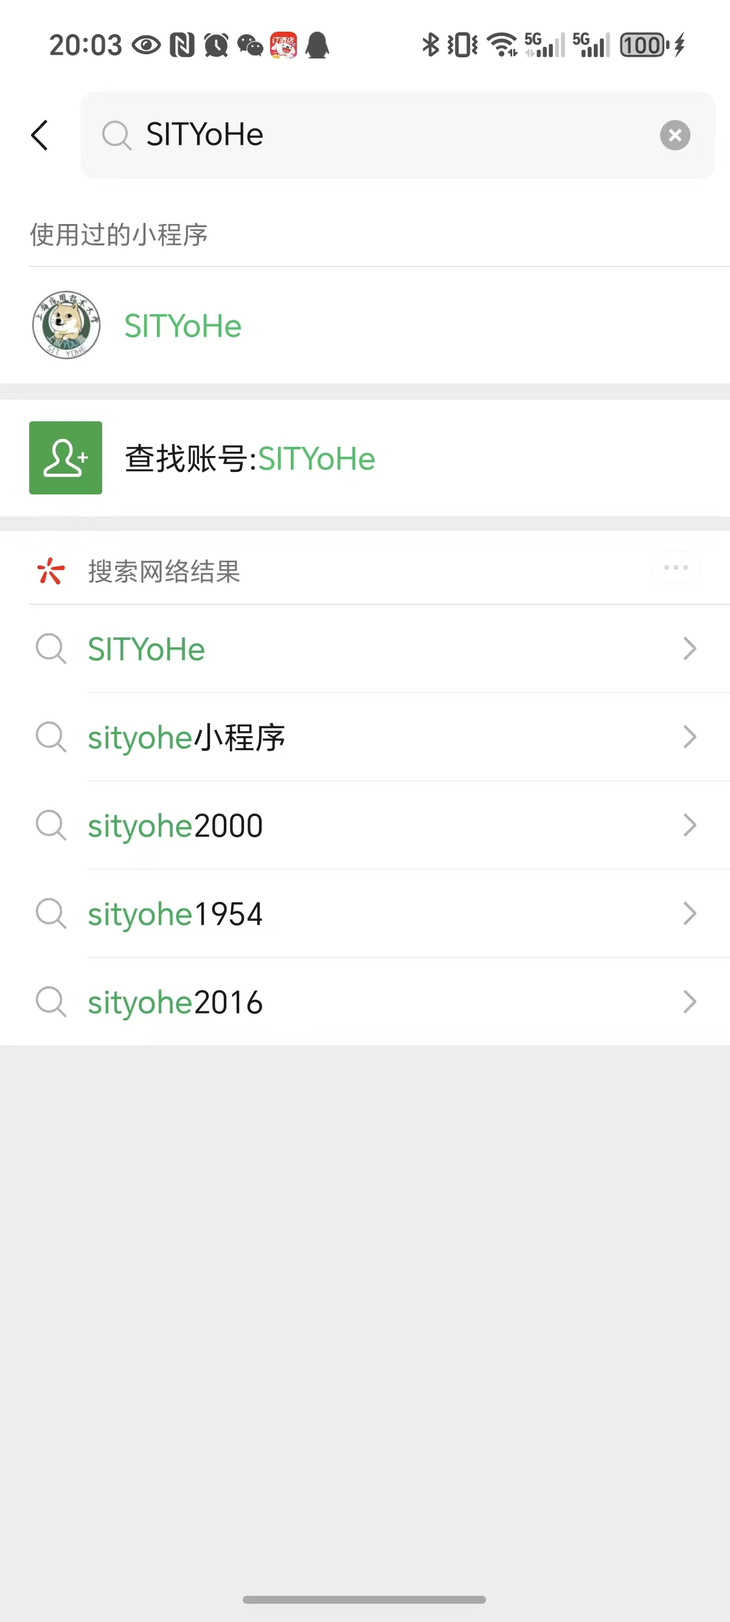
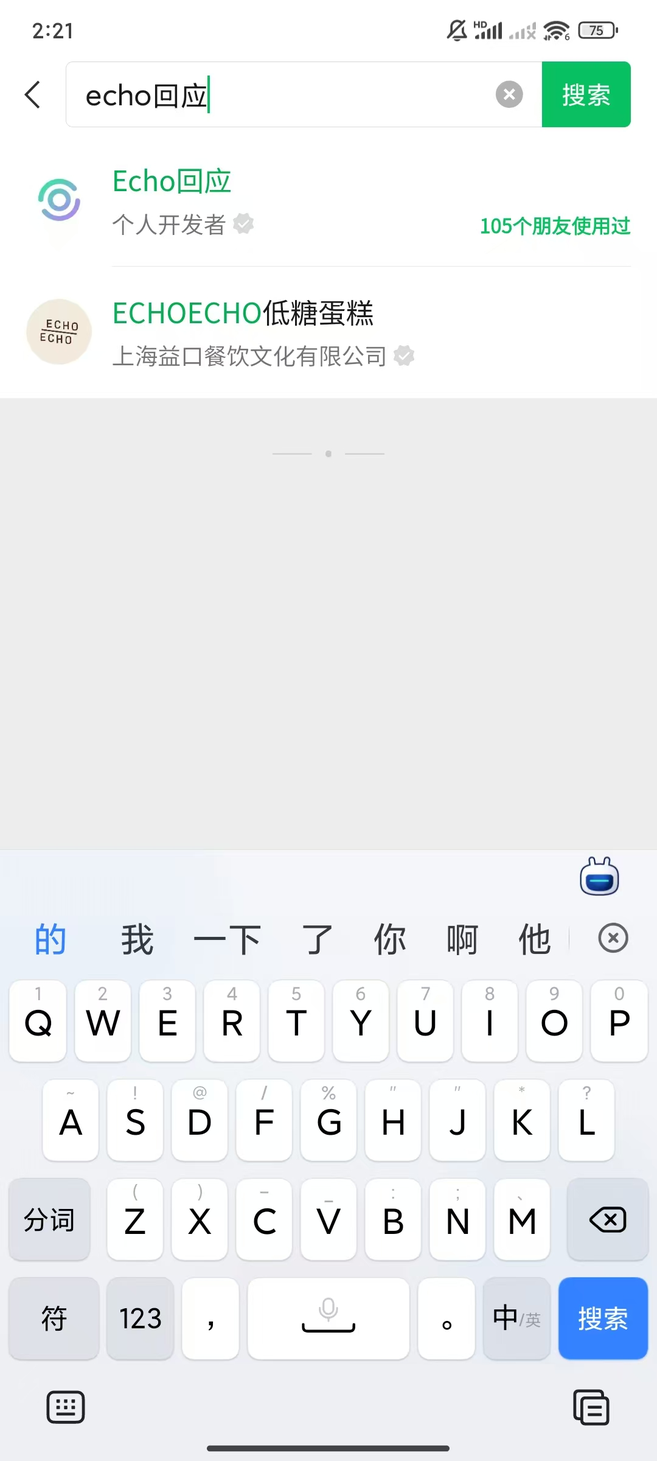
deploy: Echo-SIT/home-page@77c7e589045f71fa7e1c4634dc41f0b641b55a37

diff --git a/docs/guide/index.html b/docs/guide/index.html
@@ -1,4 +1,4 @@
-<!doctype html><!-- This site was created with Hugo Blox. https://hugoblox.com --><!-- Last Published: 2025年9月24日 --><html lang=zh-CN dir=ltr data-wc-theme-default=light><head><meta charset=utf-8><meta name=viewport content="width=device-width,initial-scale=1"><meta http-equiv=X-UA-Compatible content="IE=edge"><meta name=generator content="Hugo Blox Builder 0.7.0"><meta name=author content="木子木"><meta name=description content=' 打开微信，搜索“SITYoHe"，打开小程序。 进入登录页面，输入自己的学号和密码（就是登录OA 的那个哦！） 此时就可以看到我们小程序的三个主要页面 第一个是课表界面，如果课表界面是空白，就需要先手动导入课表，具体流程就如下 点击左上角设置按钮 点击获取课程表（记得把更新缓存和调休课程打开），刷新之后就可以看到课表了。 同时我们还可以给课表设置喜欢的背景 你也可以选择你喜欢的配色，让课表变得更顺眼些 第二部分是一些常用的工具，除了学习相关的之外，还有猫协的小程序跳转（在那里可以找到学校里小猫小狗的名字哦） 最后就是“我的”界面，在这里你可以将小程序添加到桌面，更方便使用哦！同时，如果在使用过程中遇到任何问题，欢迎加入QQ用户反馈群：735705921，向我们提供建议和意见。 '><link rel=alternate hreflang=zh-CN href=https://Echo-SIT.github.io/docs/guide/><link rel=stylesheet href=/css/themes/blue.min.css>
+<!doctype html><!-- This site was created with Hugo Blox. https://hugoblox.com --><!-- Last Published: 2025年10月20日 --><html lang=zh-CN dir=ltr data-wc-theme-default=light><head><meta charset=utf-8><meta name=viewport content="width=device-width,initial-scale=1"><meta http-equiv=X-UA-Compatible content="IE=edge"><meta name=generator content="Hugo Blox Builder 0.7.0"><meta name=author content="木子木"><meta name=description content=' 打开微信，搜索“Echo回应"，打开小程序。 进入登录页面，输入自己的学号和密码（就是登录OA 的那个哦！） 此时就可以看到我们小程序的三个主要页面 第一个是课表界面，如果课表界面是空白，就需要先手动导入课表，具体流程就如下 点击左上角设置按钮 点击获取课程表（记得把更新缓存和调休课程打开），刷新之后就可以看到课表了。 同时我们还可以给课表设置喜欢的背景 你也可以选择你喜欢的配色，让课表变得更顺眼些 第二部分是一些常用的工具，除了学习相关的之外，还有猫协的小程序跳转（在那里可以找到学校里小猫小狗的名字哦） 最后就是“我的”界面，在这里你可以将小程序添加到桌面，更方便使用哦！同时，如果在使用过程中遇到任何问题，欢迎加入QQ用户反馈群：735705921，向我们提供建议和意见。 '><link rel=alternate hreflang=zh-CN href=https://Echo-SIT.github.io/docs/guide/><link rel=stylesheet href=/css/themes/blue.min.css>
     
 
   
@@ -13,7 +13,7 @@
 
   
 <script src=/js/hb-head.min.4f709a77731090398c609176d6a8ca70c152ef89185db97631774ffe9011d746.js integrity="sha256-T3Cad3MQkDmMYJF21qjKcMFS74kYXbl2MXdP/pAR10Y=" crossorigin=anonymous></script><link rel=icon type=image/png href=/media/icon_hu_c545d605fbaba839.png><link rel=apple-touch-icon type=image/png href=/media/icon_hu_b7aec86dcb688f0.png><link rel=canonical href=https://Echo-SIT.github.io/docs/guide/><meta property="twitter:card" content="summary"><meta property="og:site_name" content="Echo-SIT"><meta property="og:url" content="https://Echo-SIT.github.io/docs/guide/"><meta property="og:title" content="使用指南和功能介绍 | Echo-SIT"><meta property="og:description" content='
-打开微信，搜索“SITYoHe"，打开小程序。
+打开微信，搜索“Echo回应"，打开小程序。
 
   
 
@@ -73,7 +73,7 @@ sidebar-active-item bg-primary-100 font-semibold text-primary-800 dark:bg-primar
 sidebar-active-item bg-primary-100 font-semibold text-primary-800 dark:bg-primary-300 dark:text-primary-900" href=/docs/guide/>使用指南和功能介绍</a></li><li class="[word-break:break-word] mt-5 mb-2 px-2 py-1.5 text-sm font-semibold text-gray-900 first:mt-0 dark:text-gray-100 cursor-default"><span>需要其他帮助或者反馈吗？欢迎加入QQ用户反馈群：735705921</span></li></ul></div></aside><nav class="hb-toc order-last hidden w-64 shrink-0 xl:block print:hidden px-4" aria-label="table of contents"><div class="hb-scrollbar text-sm [hyphens:auto] sticky top-16 overflow-y-auto pr-4 pt-6 max-h-[calc(100vh-var(--navbar-height)-env(safe-area-inset-bottom))] -mr-4 rtl:-ml-4"><div class="sticky bottom-0 flex flex-col items-start gap-2 pb-8"><a class="text-xs font-medium text-gray-500 hover:text-gray-900 dark:text-gray-400 dark:hover:text-gray-100 contrast-more:text-gray-800 contrast-more:dark:text-gray-50" href=https://github.com/Echo-SIT/home-page/edit/main/content/docs/guide/index.md target=_blank rel=noreferer>编辑本页</a></div>
     
     
-  </div></nav><article class="flex w-full min-w-0 min-h-[calc(100vh-var(--navbar-height))] justify-center break-words pb-8 pr-[calc(env(safe-area-inset-right)-1.5rem)]"><main class="prose prose-slate lg:prose-xl dark:prose-invert w-full min-w-0 max-w-6xl px-6 pt-4 md:px-12"><div class=mb-1><div class="mt-1.5 flex items-center gap-1 overflow-hidden text-sm text-gray-500 dark:text-gray-400"><div class="whitespace-nowrap transition-colors min-w-[24px] overflow-hidden text-ellipsis hover:text-gray-900 dark:hover:text-gray-100"><a href=https://Echo-SIT.github.io/docs/>文档</a></div><svg class="w-3.5 shrink-0" viewBox="0 0 24 24"><path fill="none" stroke="currentColor" stroke-linecap="round" stroke-linejoin="round" stroke-width="1.5" d="m8.25 4.5 7.5 7.5-7.5 7.5"/></svg><div class="whitespace-nowrap font-medium text-gray-700 dark:text-gray-100">使用指南和功能介绍</div></div></div><div class="content text-base"><h1>使用指南和功能介绍</h1><ol><li>打开微信，搜索“SITYoHe"，打开小程序。<figure><img src=/docs/guide/img/1.jpeg width=240 height=160></figure></li><li>进入登录页面，输入自己的学号和密码（就是登录OA 的那个哦！）<figure><img src=/docs/guide/img/2.jpeg width=240 height=160></figure></li><li>此时就可以看到我们小程序的三个主要页面<figure><img src=/docs/guide/img/3.jpeg width=240 height=160></figure></li><li>第一个是课表界面，如果课表界面是空白，就需要先手动导入课表，具体流程就如下<figure><img src=/docs/guide/img/4.jpeg width=240 height=160></figure></li><li>点击左上角设置按钮<figure><img src=/docs/guide/img/5.jpeg width=240 height=160></figure></li><li>点击获取课程表（记得把更新缓存和调休课程打开），刷新之后就可以看到课表了。<figure><img src=/docs/guide/img/6.jpeg width=240 height=160></figure></li><li>同时我们还可以给课表设置喜欢的背景<figure><img src=/docs/guide/img/7.jpeg width=240 height=160></figure></li><li>你也可以选择你喜欢的配色，让课表变得更顺眼些<figure><img src=/docs/guide/img/8.jpeg width=400 height=400></figure></li><li>第二部分是一些常用的工具，除了学习相关的之外，还有猫协的小程序跳转（在那里可以找到学校里小猫小狗的名字哦）<figure><img src=/docs/guide/img/9.jpeg width=240 height=160></figure></li><li>最后就是“我的”界面，在这里你可以将小程序添加到桌面，更方便使用哦！同时，如果在使用过程中遇到任何问题，欢迎加入QQ用户反馈群：735705921，向我们提供建议和意见。<figure><img src=/docs/guide/img/10.jpeg width=240 height=160></figure></li></ol></div><div class=mt-16></div></main></article></div></div><div class=page-footer><footer class="container mx-auto flex flex-col justify-items-center text-sm leading-6 mt-24 mb-4 text-slate-700 dark:text-slate-200"><p class="powered-by text-center">© 2025 Echo-SIT. This work is licensed under <a href=https://creativecommons.org/licenses/by-nc-nd/4.0 rel="noopener noreferrer" target=_blank>CC BY NC ND 4.0</a></p><p class="powered-by footer-license-icons"><a href=https://creativecommons.org/licenses/by-nc-nd/4.0 rel="noopener noreferrer" target=_blank aria-label="Creative Commons"><i class="fab fa-creative-commons fa-2x" aria-hidden=true></i>
+  </div></nav><article class="flex w-full min-w-0 min-h-[calc(100vh-var(--navbar-height))] justify-center break-words pb-8 pr-[calc(env(safe-area-inset-right)-1.5rem)]"><main class="prose prose-slate lg:prose-xl dark:prose-invert w-full min-w-0 max-w-6xl px-6 pt-4 md:px-12"><div class=mb-1><div class="mt-1.5 flex items-center gap-1 overflow-hidden text-sm text-gray-500 dark:text-gray-400"><div class="whitespace-nowrap transition-colors min-w-[24px] overflow-hidden text-ellipsis hover:text-gray-900 dark:hover:text-gray-100"><a href=https://Echo-SIT.github.io/docs/>文档</a></div><svg class="w-3.5 shrink-0" viewBox="0 0 24 24"><path fill="none" stroke="currentColor" stroke-linecap="round" stroke-linejoin="round" stroke-width="1.5" d="m8.25 4.5 7.5 7.5-7.5 7.5"/></svg><div class="whitespace-nowrap font-medium text-gray-700 dark:text-gray-100">使用指南和功能介绍</div></div></div><div class="content text-base"><h1>使用指南和功能介绍</h1><ol><li>打开微信，搜索“Echo回应"，打开小程序。<figure><img src=/docs/guide/img/1.jpeg width=240 height=160></figure></li><li>进入登录页面，输入自己的学号和密码（就是登录OA 的那个哦！）<figure><img src=/docs/guide/img/2.jpeg width=240 height=160></figure></li><li>此时就可以看到我们小程序的三个主要页面<figure><img src=/docs/guide/img/3.jpeg width=240 height=160></figure></li><li>第一个是课表界面，如果课表界面是空白，就需要先手动导入课表，具体流程就如下<figure><img src=/docs/guide/img/4.jpeg width=240 height=160></figure></li><li>点击左上角设置按钮<figure><img src=/docs/guide/img/5.jpeg width=240 height=160></figure></li><li>点击获取课程表（记得把更新缓存和调休课程打开），刷新之后就可以看到课表了。<figure><img src=/docs/guide/img/6.jpeg width=240 height=160></figure></li><li>同时我们还可以给课表设置喜欢的背景<figure><img src=/docs/guide/img/7.jpeg width=240 height=160></figure></li><li>你也可以选择你喜欢的配色，让课表变得更顺眼些<figure><img src=/docs/guide/img/8.jpeg width=400 height=400></figure></li><li>第二部分是一些常用的工具，除了学习相关的之外，还有猫协的小程序跳转（在那里可以找到学校里小猫小狗的名字哦）<figure><img src=/docs/guide/img/9.jpeg width=240 height=160></figure></li><li>最后就是“我的”界面，在这里你可以将小程序添加到桌面，更方便使用哦！同时，如果在使用过程中遇到任何问题，欢迎加入QQ用户反馈群：735705921，向我们提供建议和意见。<figure><img src=/docs/guide/img/10.jpeg width=240 height=160></figure></li></ol></div><div class=mt-16></div></main></article></div></div><div class=page-footer><footer class="container mx-auto flex flex-col justify-items-center text-sm leading-6 mt-24 mb-4 text-slate-700 dark:text-slate-200"><p class="powered-by text-center">© 2025 Echo-SIT. This work is licensed under <a href=https://creativecommons.org/licenses/by-nc-nd/4.0 rel="noopener noreferrer" target=_blank>CC BY NC ND 4.0</a></p><p class="powered-by footer-license-icons"><a href=https://creativecommons.org/licenses/by-nc-nd/4.0 rel="noopener noreferrer" target=_blank aria-label="Creative Commons"><i class="fab fa-creative-commons fa-2x" aria-hidden=true></i>
 <i class="fab fa-creative-commons-by fa-2x" aria-hidden=true></i>
 <i class="fab fa-creative-commons-nc fa-2x" aria-hidden=true></i>
 <i class="fab fa-creative-commons-nd fa-2x" aria-hidden=true></i></a></p><p class="powered-by text-center text-sm opacity-80 py-1">由<a class="underline hover:opacity-100" href="https://hugoblox.com?utm_source=site_footer&utm_medium=referral&utm_campaign=poweredby_oss&utm_content=brand_documentation" target=_blank rel=noopener data-hbx=poweredby_brand>Hugo Blox — Open Source</a>支持发布——免费<a href=https://github.com/HugoBlox/hugo-blox-builder target=_blank rel=noopener>开源</a>网站，为创作者赋能。

diff --git a/blog/v2.0.0/index.html b/blog/v2.0.0/index.html
@@ -1,4 +1,4 @@
-<!doctype html><!-- This site was created with Hugo Blox. https://hugoblox.com --><!-- Last Published: 2025年9月24日 --><html lang=zh-CN dir=ltr data-wc-theme-default=light><head><meta charset=utf-8><meta name=viewport content="width=device-width,initial-scale=1"><meta http-equiv=X-UA-Compatible content="IE=edge"><meta name=generator content="Hugo Blox Builder 0.7.0"><meta name=author content="木子木"><meta name=description content="介绍了Echo App v2的技术架构演进、核心功能、设计理念"><link rel=alternate hreflang=zh-CN href=https://Echo-SIT.github.io/blog/v2.0.0/><link rel=stylesheet href=/css/themes/blue.min.css>
+<!doctype html><!-- This site was created with Hugo Blox. https://hugoblox.com --><!-- Last Published: 2025年10月20日 --><html lang=zh-CN dir=ltr data-wc-theme-default=light><head><meta charset=utf-8><meta name=viewport content="width=device-width,initial-scale=1"><meta http-equiv=X-UA-Compatible content="IE=edge"><meta name=generator content="Hugo Blox Builder 0.7.0"><meta name=author content="木子木"><meta name=description content="介绍了Echo App v2的技术架构演进、核心功能、设计理念"><link rel=alternate hreflang=zh-CN href=https://Echo-SIT.github.io/blog/v2.0.0/><link rel=stylesheet href=/css/themes/blue.min.css>
     
 
   

diff --git a/blog/gitcommit/index.html b/blog/gitcommit/index.html
@@ -1,4 +1,4 @@
-<!doctype html><!-- This site was created with Hugo Blox. https://hugoblox.com --><!-- Last Published: 2025年9月24日 --><html lang=zh-CN dir=ltr data-wc-theme-default=light><head><meta charset=utf-8><meta name=viewport content="width=device-width,initial-scale=1"><meta http-equiv=X-UA-Compatible content="IE=edge"><meta name=generator content="Hugo Blox Builder 0.7.0"><meta name=author content="木子木"><meta name=description content="介绍最广泛的Angular Git Commit提交规范"><link rel=alternate hreflang=zh-CN href=https://Echo-SIT.github.io/blog/gitcommit/><link rel=stylesheet href=/css/themes/blue.min.css>
+<!doctype html><!-- This site was created with Hugo Blox. https://hugoblox.com --><!-- Last Published: 2025年10月20日 --><html lang=zh-CN dir=ltr data-wc-theme-default=light><head><meta charset=utf-8><meta name=viewport content="width=device-width,initial-scale=1"><meta http-equiv=X-UA-Compatible content="IE=edge"><meta name=generator content="Hugo Blox Builder 0.7.0"><meta name=author content="木子木"><meta name=description content="介绍最广泛的Angular Git Commit提交规范"><link rel=alternate hreflang=zh-CN href=https://Echo-SIT.github.io/blog/gitcommit/><link rel=stylesheet href=/css/themes/blue.min.css>
     
 
   

diff --git a/tag/技术架构/index.html b/tag/技术架构/index.html
@@ -1,4 +1,4 @@
-<!doctype html><!-- This site was created with Hugo Blox. https://hugoblox.com --><!-- Last Published: 2025年9月24日 --><html lang=zh-CN dir=ltr data-wc-theme-default=light><head><meta charset=utf-8><meta name=viewport content="width=device-width,initial-scale=1"><meta http-equiv=X-UA-Compatible content="IE=edge"><meta name=generator content="Hugo Blox Builder 0.7.0"><meta name=author content="木子木"><meta name=description content="Echo-SIT全栈开发"><link rel=alternate hreflang=zh-CN href=https://Echo-SIT.github.io/tag/%E6%8A%80%E6%9C%AF%E6%9E%B6%E6%9E%84/><link rel=stylesheet href=/css/themes/blue.min.css>
+<!doctype html><!-- This site was created with Hugo Blox. https://hugoblox.com --><!-- Last Published: 2025年10月20日 --><html lang=zh-CN dir=ltr data-wc-theme-default=light><head><meta charset=utf-8><meta name=viewport content="width=device-width,initial-scale=1"><meta http-equiv=X-UA-Compatible content="IE=edge"><meta name=generator content="Hugo Blox Builder 0.7.0"><meta name=author content="木子木"><meta name=description content="Echo-SIT全栈开发"><link rel=alternate hreflang=zh-CN href=https://Echo-SIT.github.io/tag/%E6%8A%80%E6%9C%AF%E6%9E%B6%E6%9E%84/><link rel=stylesheet href=/css/themes/blue.min.css>
     
 
   

diff --git a/tag/技术规范/index.html b/tag/技术规范/index.html
@@ -1,4 +1,4 @@
-<!doctype html><!-- This site was created with Hugo Blox. https://hugoblox.com --><!-- Last Published: 2025年9月24日 --><html lang=zh-CN dir=ltr data-wc-theme-default=light><head><meta charset=utf-8><meta name=viewport content="width=device-width,initial-scale=1"><meta http-equiv=X-UA-Compatible content="IE=edge"><meta name=generator content="Hugo Blox Builder 0.7.0"><meta name=author content="木子木"><meta name=description content="Echo-SIT全栈开发"><link rel=alternate hreflang=zh-CN href=https://Echo-SIT.github.io/tag/%E6%8A%80%E6%9C%AF%E8%A7%84%E8%8C%83/><link rel=stylesheet href=/css/themes/blue.min.css>
+<!doctype html><!-- This site was created with Hugo Blox. https://hugoblox.com --><!-- Last Published: 2025年10月20日 --><html lang=zh-CN dir=ltr data-wc-theme-default=light><head><meta charset=utf-8><meta name=viewport content="width=device-width,initial-scale=1"><meta http-equiv=X-UA-Compatible content="IE=edge"><meta name=generator content="Hugo Blox Builder 0.7.0"><meta name=author content="木子木"><meta name=description content="Echo-SIT全栈开发"><link rel=alternate hreflang=zh-CN href=https://Echo-SIT.github.io/tag/%E6%8A%80%E6%9C%AF%E8%A7%84%E8%8C%83/><link rel=stylesheet href=/css/themes/blue.min.css>
     
 
   

diff --git a/tag/版本发布/index.html b/tag/版本发布/index.html
@@ -1,4 +1,4 @@
-<!doctype html><!-- This site was created with Hugo Blox. https://hugoblox.com --><!-- Last Published: 2025年9月24日 --><html lang=zh-CN dir=ltr data-wc-theme-default=light><head><meta charset=utf-8><meta name=viewport content="width=device-width,initial-scale=1"><meta http-equiv=X-UA-Compatible content="IE=edge"><meta name=generator content="Hugo Blox Builder 0.7.0"><meta name=author content="木子木"><meta name=description content="Echo-SIT全栈开发"><link rel=alternate hreflang=zh-CN href=https://Echo-SIT.github.io/tag/%E7%89%88%E6%9C%AC%E5%8F%91%E5%B8%83/><link rel=stylesheet href=/css/themes/blue.min.css>
+<!doctype html><!-- This site was created with Hugo Blox. https://hugoblox.com --><!-- Last Published: 2025年10月20日 --><html lang=zh-CN dir=ltr data-wc-theme-default=light><head><meta charset=utf-8><meta name=viewport content="width=device-width,initial-scale=1"><meta http-equiv=X-UA-Compatible content="IE=edge"><meta name=generator content="Hugo Blox Builder 0.7.0"><meta name=author content="木子木"><meta name=description content="Echo-SIT全栈开发"><link rel=alternate hreflang=zh-CN href=https://Echo-SIT.github.io/tag/%E7%89%88%E6%9C%AC%E5%8F%91%E5%B8%83/><link rel=stylesheet href=/css/themes/blue.min.css>
     
 
   

diff --git a/categories/index.html b/categories/index.html
@@ -1,4 +1,4 @@
-<!doctype html><!-- This site was created with Hugo Blox. https://hugoblox.com --><!-- Last Published: 2025年9月24日 --><html lang=zh-CN dir=ltr data-wc-theme-default=light><head><meta charset=utf-8><meta name=viewport content="width=device-width,initial-scale=1"><meta http-equiv=X-UA-Compatible content="IE=edge"><meta name=generator content="Hugo Blox Builder 0.7.0"><meta name=author content="木子木"><meta name=description content="Echo-SIT全栈开发"><link rel=alternate hreflang=zh-CN href=https://Echo-SIT.github.io/categories/><link rel=stylesheet href=/css/themes/blue.min.css>
+<!doctype html><!-- This site was created with Hugo Blox. https://hugoblox.com --><!-- Last Published: 2025年10月20日 --><html lang=zh-CN dir=ltr data-wc-theme-default=light><head><meta charset=utf-8><meta name=viewport content="width=device-width,initial-scale=1"><meta http-equiv=X-UA-Compatible content="IE=edge"><meta name=generator content="Hugo Blox Builder 0.7.0"><meta name=author content="木子木"><meta name=description content="Echo-SIT全栈开发"><link rel=alternate hreflang=zh-CN href=https://Echo-SIT.github.io/categories/><link rel=stylesheet href=/css/themes/blue.min.css>
     
 
   

diff --git a/404.html b/404.html
@@ -1,4 +1,4 @@
-<!doctype html><!-- This site was created with Hugo Blox. https://hugoblox.com --><!-- Last Published: 2025年9月24日 --><html lang=zh-CN dir=ltr data-wc-theme-default=light><head><meta charset=utf-8><meta name=viewport content="width=device-width,initial-scale=1"><meta http-equiv=X-UA-Compatible content="IE=edge"><meta name=generator content="Hugo Blox Builder 0.7.0"><meta name=author content="木子木"><meta name=description content="Echo-SIT全栈开发"><link rel=alternate hreflang=zh-CN href=https://Echo-SIT.github.io/404.html><link rel=stylesheet href=/css/themes/blue.min.css>
+<!doctype html><!-- This site was created with Hugo Blox. https://hugoblox.com --><!-- Last Published: 2025年10月20日 --><html lang=zh-CN dir=ltr data-wc-theme-default=light><head><meta charset=utf-8><meta name=viewport content="width=device-width,initial-scale=1"><meta http-equiv=X-UA-Compatible content="IE=edge"><meta name=generator content="Hugo Blox Builder 0.7.0"><meta name=author content="木子木"><meta name=description content="Echo-SIT全栈开发"><link rel=alternate hreflang=zh-CN href=https://Echo-SIT.github.io/404.html><link rel=stylesheet href=/css/themes/blue.min.css>
     
 
   

diff --git a/tag/git/index.html b/tag/git/index.html
@@ -1,4 +1,4 @@
-<!doctype html><!-- This site was created with Hugo Blox. https://hugoblox.com --><!-- Last Published: 2025年9月24日 --><html lang=zh-CN dir=ltr data-wc-theme-default=light><head><meta charset=utf-8><meta name=viewport content="width=device-width,initial-scale=1"><meta http-equiv=X-UA-Compatible content="IE=edge"><meta name=generator content="Hugo Blox Builder 0.7.0"><meta name=author content="木子木"><meta name=description content="Echo-SIT全栈开发"><link rel=alternate hreflang=zh-CN href=https://Echo-SIT.github.io/tag/git/><link rel=stylesheet href=/css/themes/blue.min.css>
+<!doctype html><!-- This site was created with Hugo Blox. https://hugoblox.com --><!-- Last Published: 2025年10月20日 --><html lang=zh-CN dir=ltr data-wc-theme-default=light><head><meta charset=utf-8><meta name=viewport content="width=device-width,initial-scale=1"><meta http-equiv=X-UA-Compatible content="IE=edge"><meta name=generator content="Hugo Blox Builder 0.7.0"><meta name=author content="木子木"><meta name=description content="Echo-SIT全栈开发"><link rel=alternate hreflang=zh-CN href=https://Echo-SIT.github.io/tag/git/><link rel=stylesheet href=/css/themes/blue.min.css>
     
 
   

diff --git a/about/index.html b/about/index.html
@@ -1,4 +1,4 @@
-<!doctype html><!-- This site was created with Hugo Blox. https://hugoblox.com --><!-- Last Published: 2025年9月24日 --><html lang=zh-CN dir=ltr data-wc-theme-default=light><head><meta charset=utf-8><meta name=viewport content="width=device-width,initial-scale=1"><meta http-equiv=X-UA-Compatible content="IE=edge"><meta name=generator content="Hugo Blox Builder 0.7.0"><meta name=author content="木子木"><meta name=description content="Echo-SIT全栈开发"><link rel=alternate hreflang=zh-CN href=https://Echo-SIT.github.io/about/><link rel=stylesheet href=/css/themes/blue.min.css>
+<!doctype html><!-- This site was created with Hugo Blox. https://hugoblox.com --><!-- Last Published: 2025年10月20日 --><html lang=zh-CN dir=ltr data-wc-theme-default=light><head><meta charset=utf-8><meta name=viewport content="width=device-width,initial-scale=1"><meta http-equiv=X-UA-Compatible content="IE=edge"><meta name=generator content="Hugo Blox Builder 0.7.0"><meta name=author content="木子木"><meta name=description content="Echo-SIT全栈开发"><link rel=alternate hreflang=zh-CN href=https://Echo-SIT.github.io/about/><link rel=stylesheet href=/css/themes/blue.min.css>
     
 
   

diff --git a/blog/index.html b/blog/index.html
@@ -1,4 +1,4 @@
-<!doctype html><!-- This site was created with Hugo Blox. https://hugoblox.com --><!-- Last Published: 2025年9月24日 --><html lang=zh-CN dir=ltr data-wc-theme-default=light><head><meta charset=utf-8><meta name=viewport content="width=device-width,initial-scale=1"><meta http-equiv=X-UA-Compatible content="IE=edge"><meta name=generator content="Hugo Blox Builder 0.7.0"><meta name=author content="木子木"><meta name=description content="Echo-SIT全栈开发"><link rel=alternate hreflang=zh-CN href=https://Echo-SIT.github.io/blog/><link rel=stylesheet href=/css/themes/blue.min.css>
+<!doctype html><!-- This site was created with Hugo Blox. https://hugoblox.com --><!-- Last Published: 2025年10月20日 --><html lang=zh-CN dir=ltr data-wc-theme-default=light><head><meta charset=utf-8><meta name=viewport content="width=device-width,initial-scale=1"><meta http-equiv=X-UA-Compatible content="IE=edge"><meta name=generator content="Hugo Blox Builder 0.7.0"><meta name=author content="木子木"><meta name=description content="Echo-SIT全栈开发"><link rel=alternate hreflang=zh-CN href=https://Echo-SIT.github.io/blog/><link rel=stylesheet href=/css/themes/blue.min.css>
     
 
   

diff --git a/docs/index.html b/docs/index.html
@@ -1,4 +1,4 @@
-<!doctype html><!-- This site was created with Hugo Blox. https://hugoblox.com --><!-- Last Published: 2025年9月24日 --><html lang=zh-CN dir=ltr data-wc-theme-default=light><head><meta charset=utf-8><meta name=viewport content="width=device-width,initial-scale=1"><meta http-equiv=X-UA-Compatible content="IE=edge"><meta name=generator content="Hugo Blox Builder 0.7.0"><meta name=author content="木子木"><meta name=description content="Echo-SIT全栈开发"><link rel=alternate hreflang=zh-CN href=https://Echo-SIT.github.io/docs/><link rel=stylesheet href=/css/themes/blue.min.css>
+<!doctype html><!-- This site was created with Hugo Blox. https://hugoblox.com --><!-- Last Published: 2025年10月20日 --><html lang=zh-CN dir=ltr data-wc-theme-default=light><head><meta charset=utf-8><meta name=viewport content="width=device-width,initial-scale=1"><meta http-equiv=X-UA-Compatible content="IE=edge"><meta name=generator content="Hugo Blox Builder 0.7.0"><meta name=author content="木子木"><meta name=description content="Echo-SIT全栈开发"><link rel=alternate hreflang=zh-CN href=https://Echo-SIT.github.io/docs/><link rel=stylesheet href=/css/themes/blue.min.css>
     
 
   
